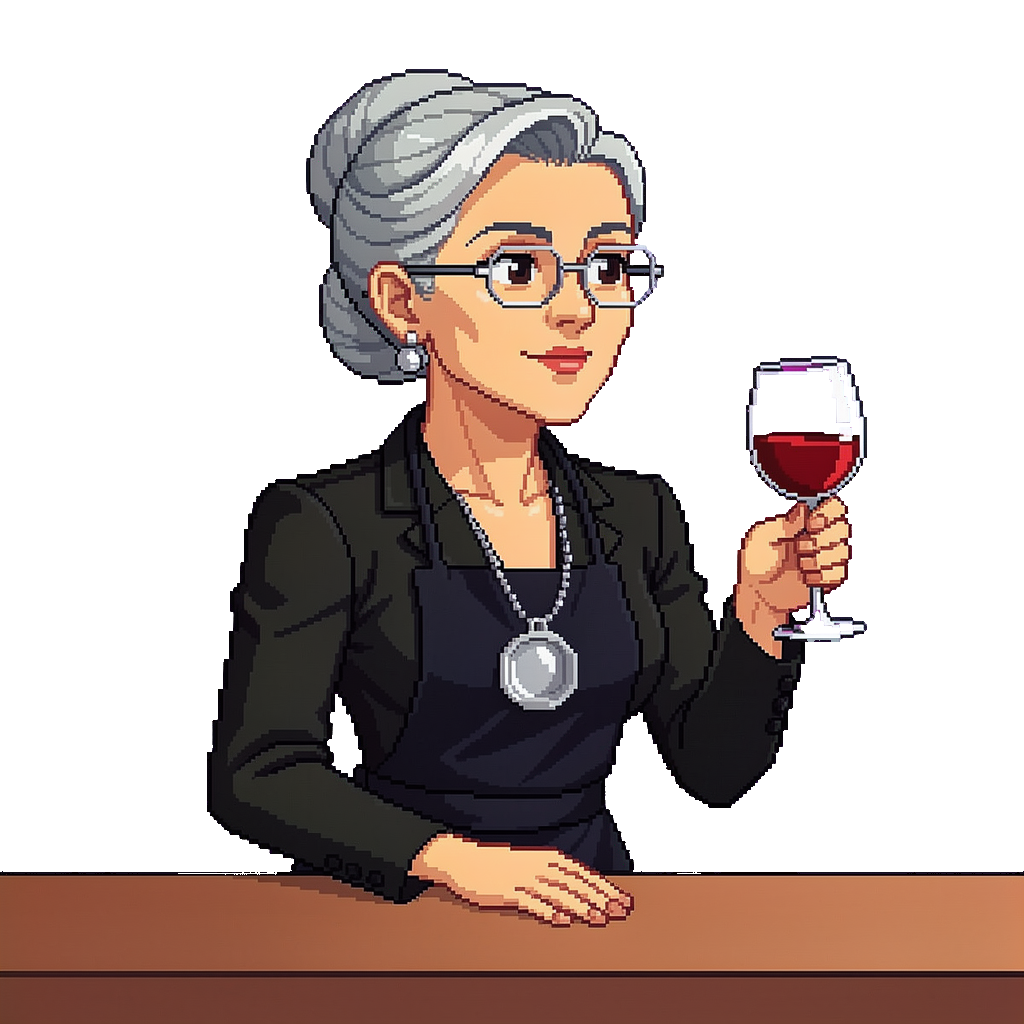
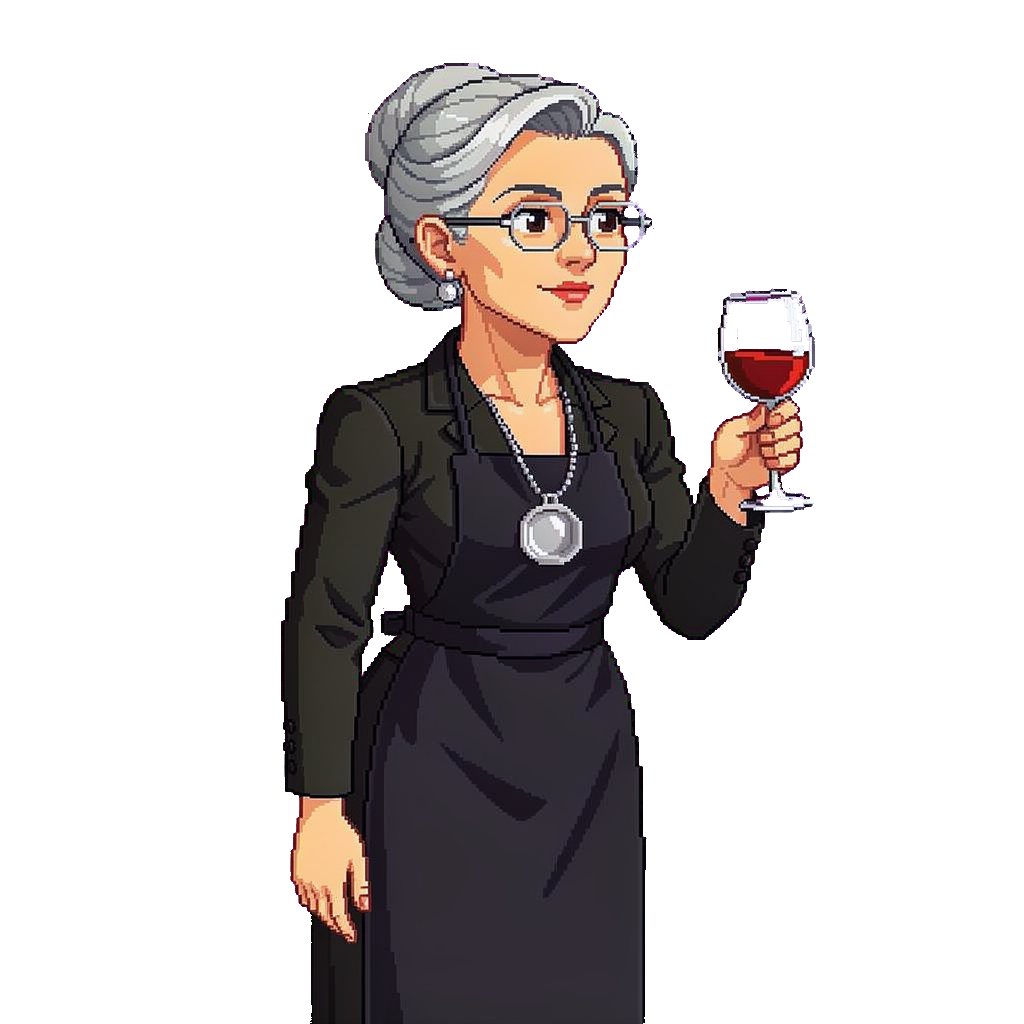
feat: Madame ohne Theke, Akademie-Tresen

diff --git a/tools/generate_academy_assets.py b/tools/generate_academy_assets.py
@@ -99,5 +99,35 @@ def tafel_ohne_schrift(box=(640, 208, 1392, 752)):
     print("→ Tafel ersetzt")
 
 
-if __name__ == "__main__" and len(sys.argv) > 1 and sys.argv[1] == "tafel":
-    tafel_ohne_schrift()
+def madame_ohne_theke():
+    """Theke aus dem Madame-Bild entfernen (Figur steht frei, die Akademie hat einen eigenen Tresen)."""
+    key = load_api_key()
+    raw = Image.open(RAW / "madame_raw.png").convert("RGB")
+    prompt = ("Edit this pixel-art character image: REMOVE the wooden counter in the foreground completely. "
+              "She stands freely; her black jacket and long black sommelier apron continue down to the bottom edge of the image, "
+              "her free hand hangs relaxed at her side. Keep her face, hair, glasses, tastevin, wine glass, pose, style and the "
+              "flat pure magenta background exactly the same. No counter, no furniture, no text.")
+    img = generate(key, prompt, 1024, 1024, refs=[raw])
+    img.save(RAW / "madame_ohne_theke_raw.png")
+    chroma_key(img).save(OUT / "madame_duvin.png", optimize=True)
+    print("→ madame_duvin.png ohne Theke")
+
+
+def tresen():
+    """Vordergrund-Tresen der Akademie (1920×400, transparent oben) wie assets/<level>/theke.png."""
+    key = load_api_key()
+    ref = on_magenta(ASSETS / "gehoben" / "theke.png")
+    prompt = ("Pixel art foreground counter strip, exactly the same style, perspective and framing as the reference image: "
+              "front view of a long tasting counter spanning the full width, pale limestone front with a polished oak top. "
+              "On the counter: a crystal decanter with red wine, a row of tasting glasses with small pours of white, rose and red wine, "
+              "a small metal spittoon bucket, an open wooden aroma kit box with tiny vials, a leather notebook and a pencil, "
+              "a white tasting cloth. Everything above the counter is flat pure magenta (#FF00FF). No text, no letters.")
+    img = generate(key, prompt, 1920, 400, refs=[ref])
+    RAW.mkdir(parents=True, exist_ok=True)
+    img.save(RAW / "tresen_raw.png")
+    chroma_key(img).save(OUT / "theke.png", optimize=True)
+    print("→ academy/theke.png")
+
+
+if __name__ == "__main__" and len(sys.argv) > 1:
+    {"tafel": tafel_ohne_schrift, "madame2": madame_ohne_theke, "tresen": tresen}.get(sys.argv[1], lambda: None)()
